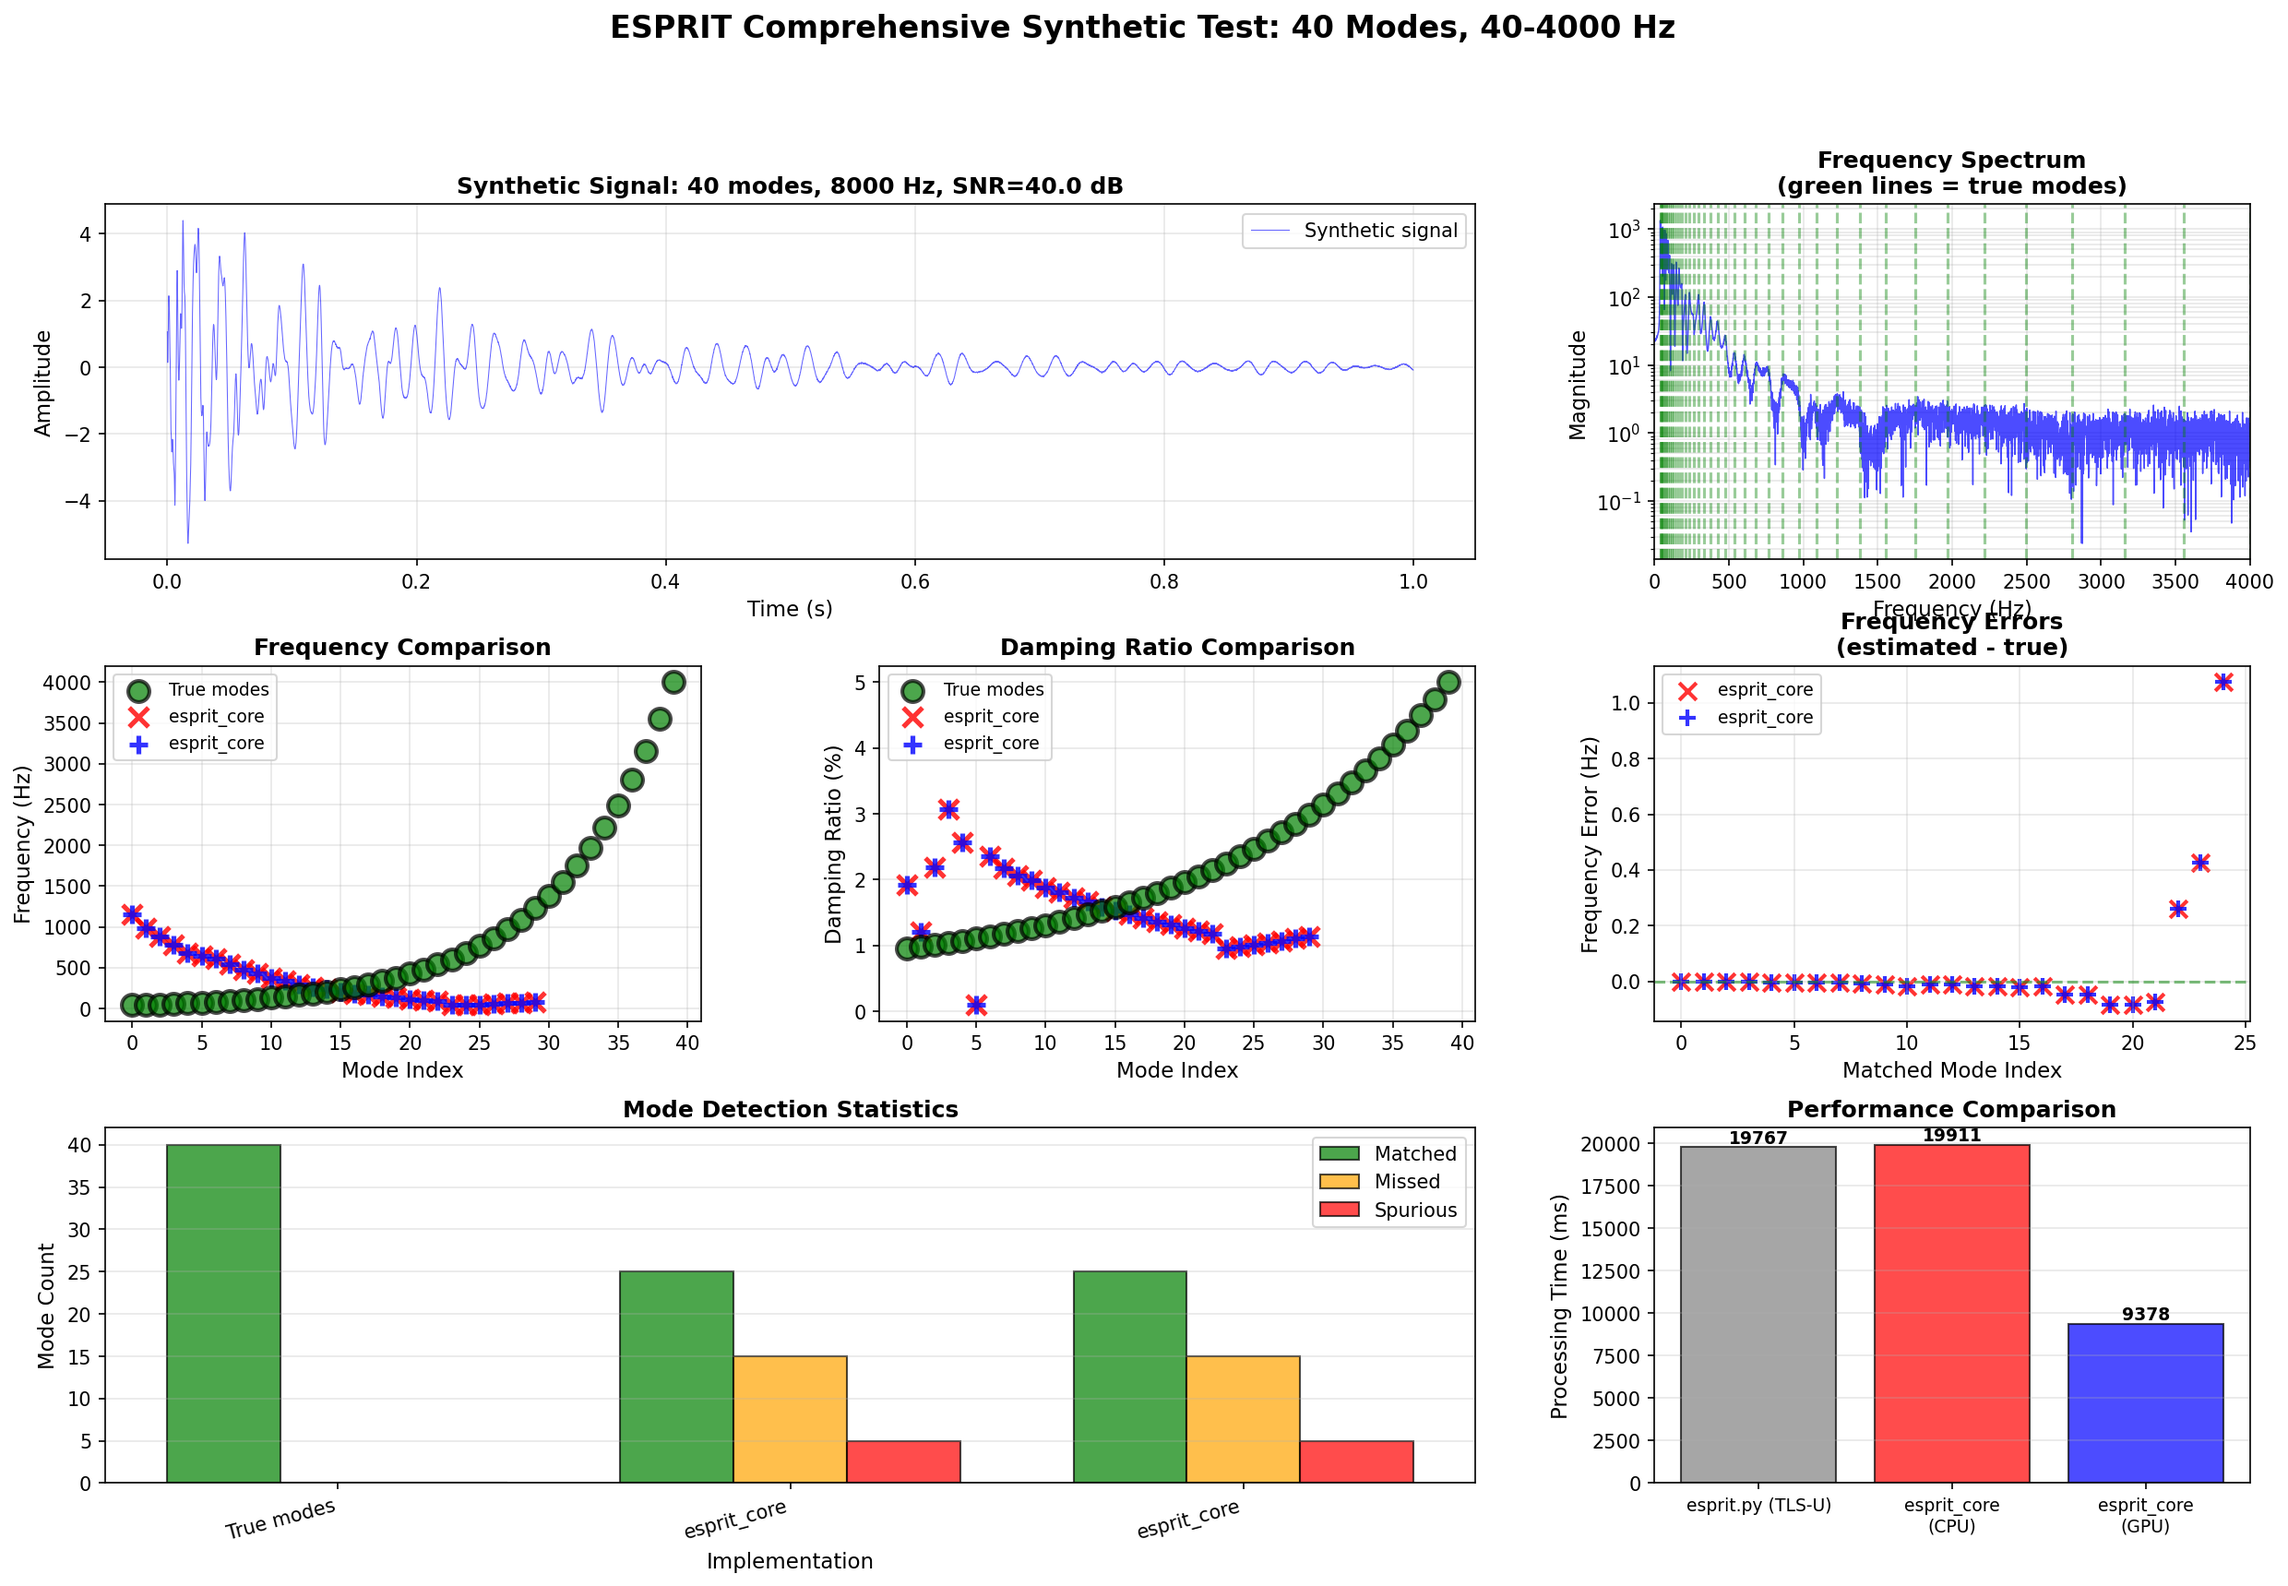
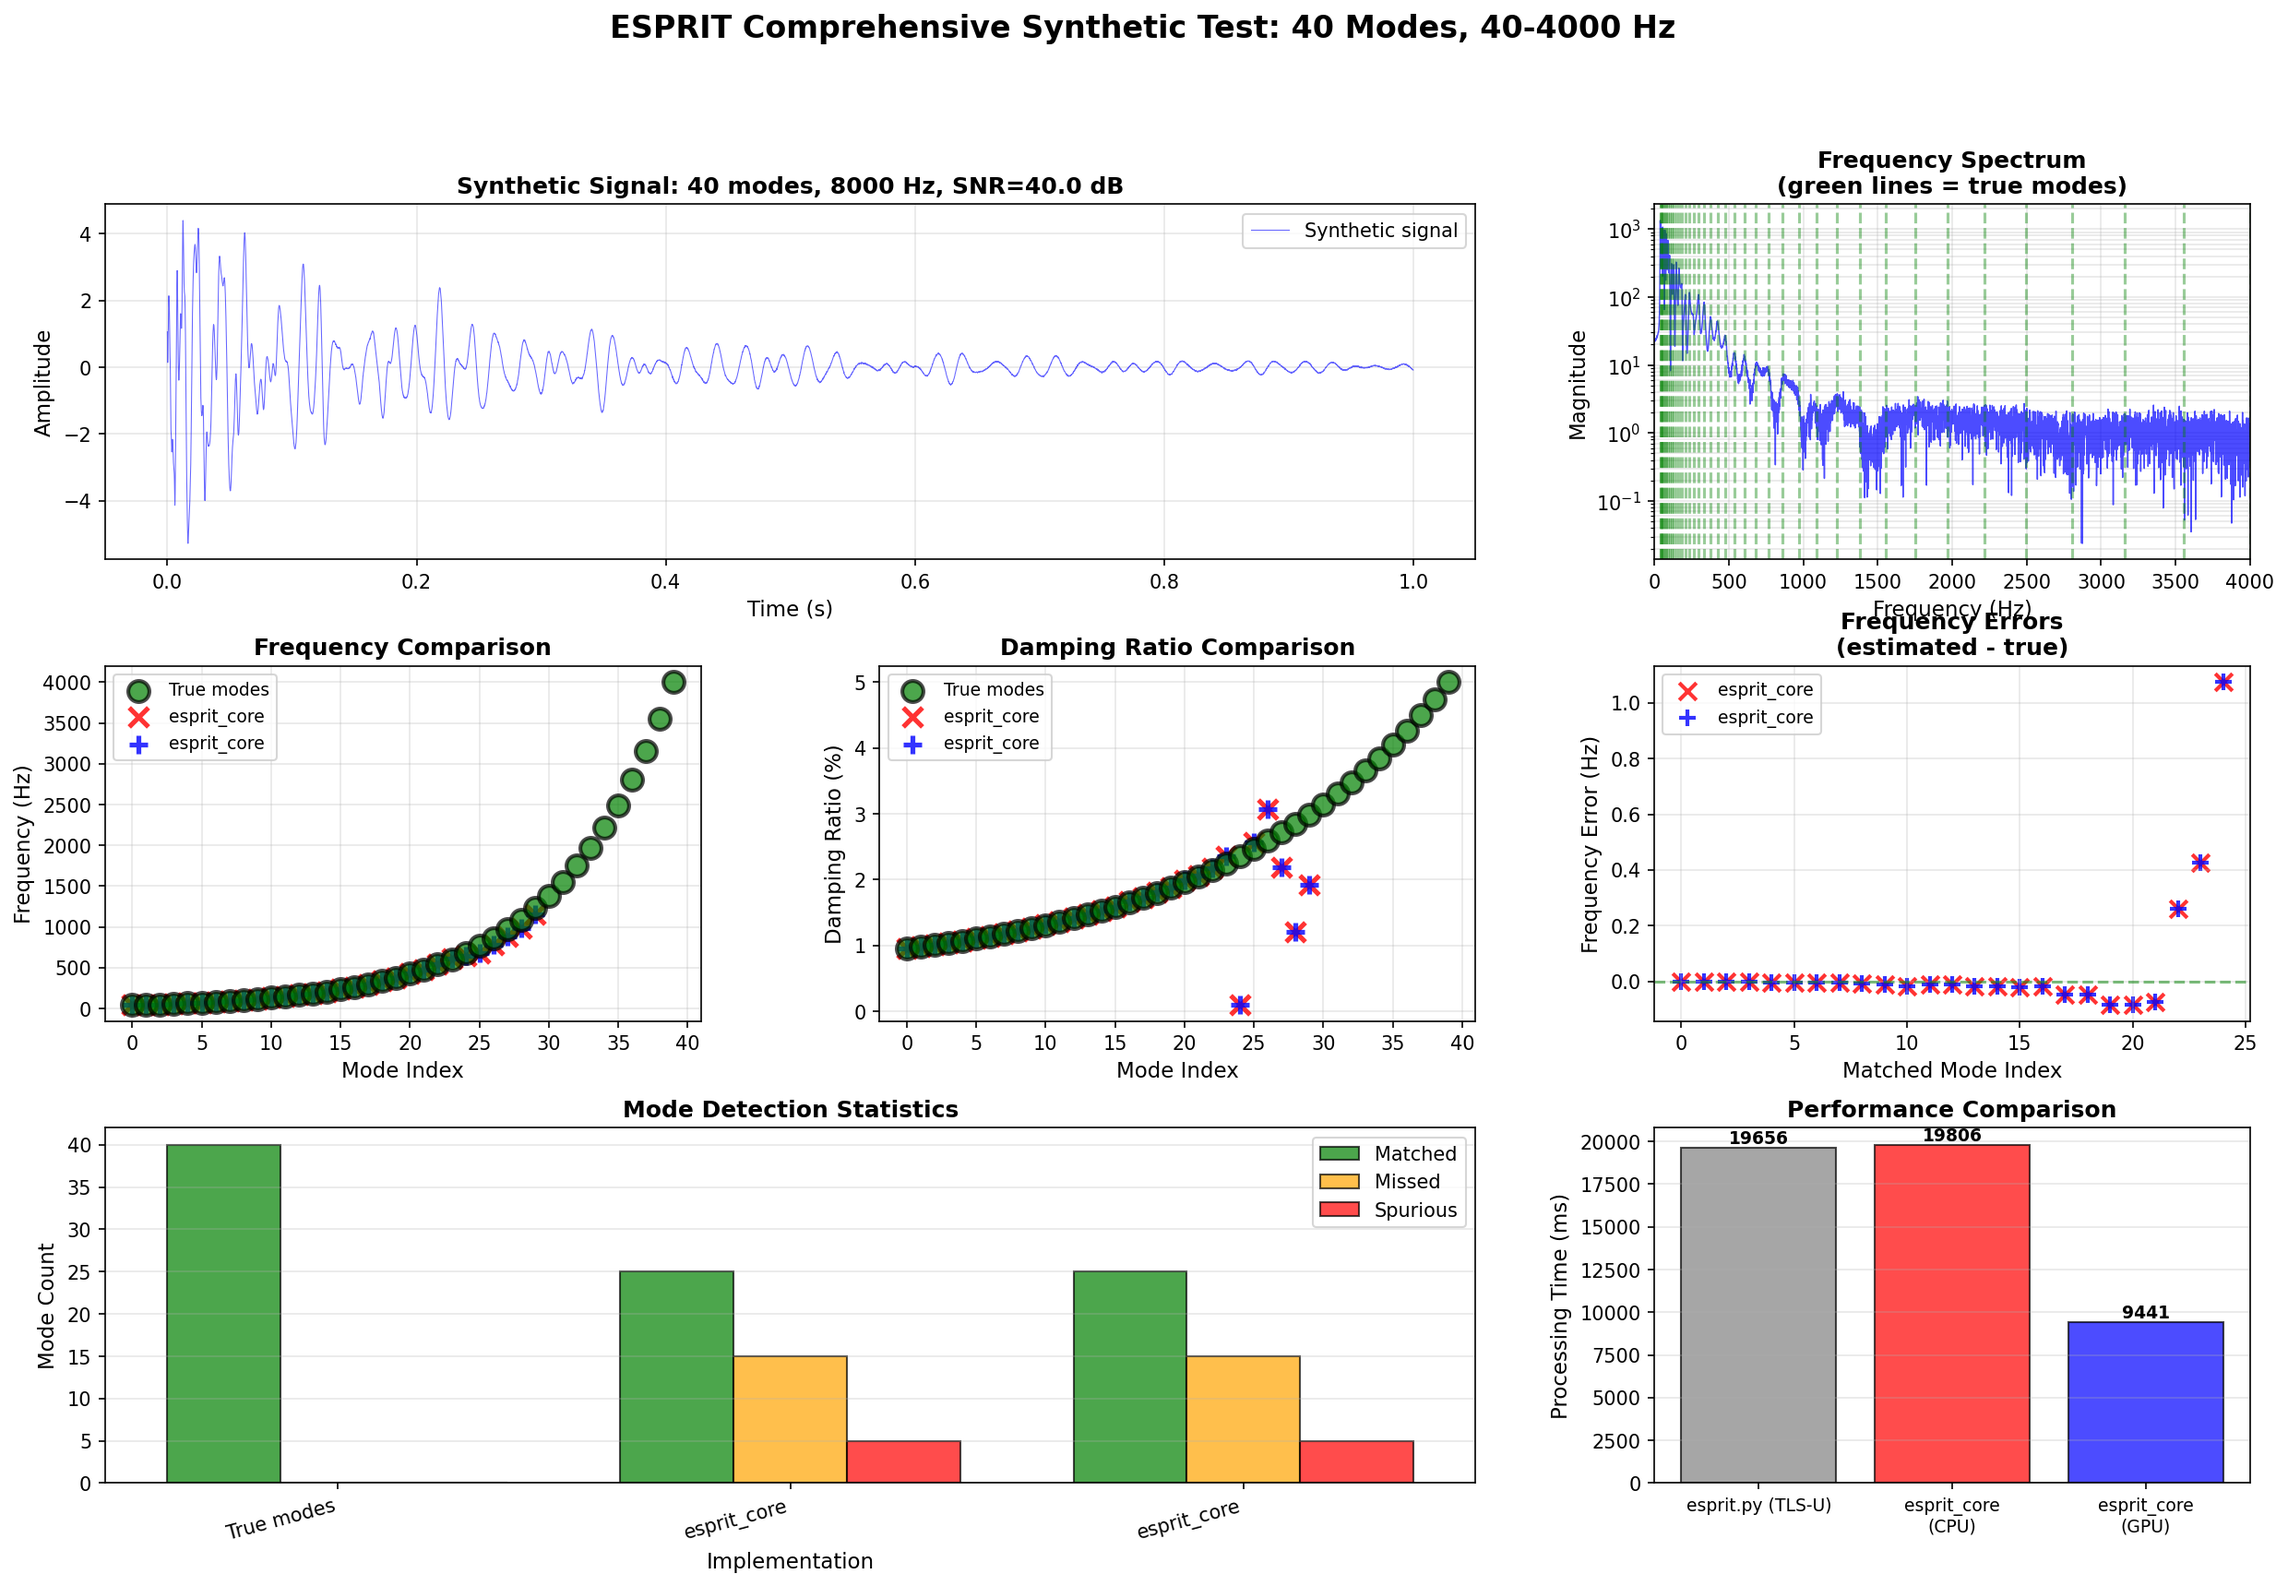
fix: Sort detected modes by frequency in visualization charts
Fixed frequency and damping comparison charts to properly sort
detected modes by frequency before plotting. This ensures that
mode indices align correctly between true and detected modes.

Before: Detected modes were plotted in arbitrary order, making
        visual comparison difficult
After: Both true and detected modes sorted by frequency, showing
       clear alignment and making it easy to identify which modes
       were detected, missed, or spurious

Charts affected:
- Frequency Comparison (middle row, left)
- Damping Ratio Comparison (middle row, middle)

diff --git a/ESPRIT/test_comprehensive_synthetic.py b/ESPRIT/test_comprehensive_synthetic.py
@@ -612,19 +612,21 @@ def create_visualizations(signals: np.ndarray, fs: float, true_modes: list,
     # 3. Frequency Comparison (middle row, left)
     ax_freq = fig.add_subplot(gs[1, 0])
 
-    # Plot true modes
+    # Plot true modes (already sorted)
     x_true = np.arange(len(f_true))
     ax_freq.scatter(x_true, f_true, s=120, marker='o',
                    color='green', label='True modes', alpha=0.7,
                    edgecolors='black', linewidth=2, zorder=3)
 
-    # Plot estimated modes from each implementation
+    # Plot estimated modes from each implementation (sorted by frequency)
     for impl_name, color, marker in zip(impl_names, colors, markers):
         if impl_name in results['implementations']:
             impl = results['implementations'][impl_name]
             if impl['n_modes'] > 0:
-                x_est = np.arange(len(impl['frequencies']))
-                ax_freq.scatter(x_est, impl['frequencies'], s=100, marker=marker,
+                # Sort by frequency for proper comparison
+                freq_sorted = np.sort(impl['frequencies'])
+                x_est = np.arange(len(freq_sorted))
+                ax_freq.scatter(x_est, freq_sorted, s=100, marker=marker,
                               color=color, label=impl_name.split('(')[0].strip(),
                               alpha=0.8, linewidth=2.5, zorder=2)
 
@@ -637,18 +639,24 @@ def create_visualizations(signals: np.ndarray, fs: float, true_modes: list,
     # 4. Damping Comparison (middle row, middle)
     ax_damp = fig.add_subplot(gs[1, 1])
 
-    # Plot true damping ratios
+    # Plot true damping ratios (already sorted by frequency)
     ax_damp.scatter(x_true, zeta_true * 100, s=120, marker='o',
                    color='green', label='True modes', alpha=0.7,
                    edgecolors='black', linewidth=2, zorder=3)
 
-    # Plot estimated damping from each implementation
+    # Plot estimated damping from each implementation (sorted by frequency)
     for impl_name, color, marker in zip(impl_names, colors, markers):
         if impl_name in results['implementations']:
             impl = results['implementations'][impl_name]
             if impl['n_modes'] > 0:
-                x_est = np.arange(len(impl['damping_ratios']))
-                ax_damp.scatter(x_est, np.array(impl['damping_ratios']) * 100,
+                # Sort by frequency to match frequency chart
+                freqs = np.array(impl['frequencies'])
+                damps = np.array(impl['damping_ratios'])
+                sort_idx = np.argsort(freqs)
+                damps_sorted = damps[sort_idx]
+
+                x_est = np.arange(len(damps_sorted))
+                ax_damp.scatter(x_est, damps_sorted * 100,
                               s=100, marker=marker, color=color,
                               label=impl_name.split('(')[0].strip(),
                               alpha=0.8, linewidth=2.5, zorder=2)
